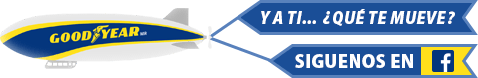
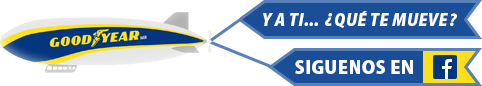
Actualización
Actualización de Firma PiT STOP

diff --git a/Servs/Sal_Gto/PiTSTOP/Gal/CSS/Galeria.css b/Servs/Sal_Gto/PiTSTOP/Gal/CSS/Galeria.css
@@ -79,7 +79,7 @@ html {
 
 .LogoContenedor {
 	width:100%;
-	height:10.2rem;
+	height:11.0rem;
 	background:#04367D;
 	display:flex;
 	justify-content:center;
@@ -88,7 +88,7 @@ html {
 }
 
 .Logo {
-	width:22.2rem;
+	width:24.6rem;
 	height:auto;
 	display:block;
 }
